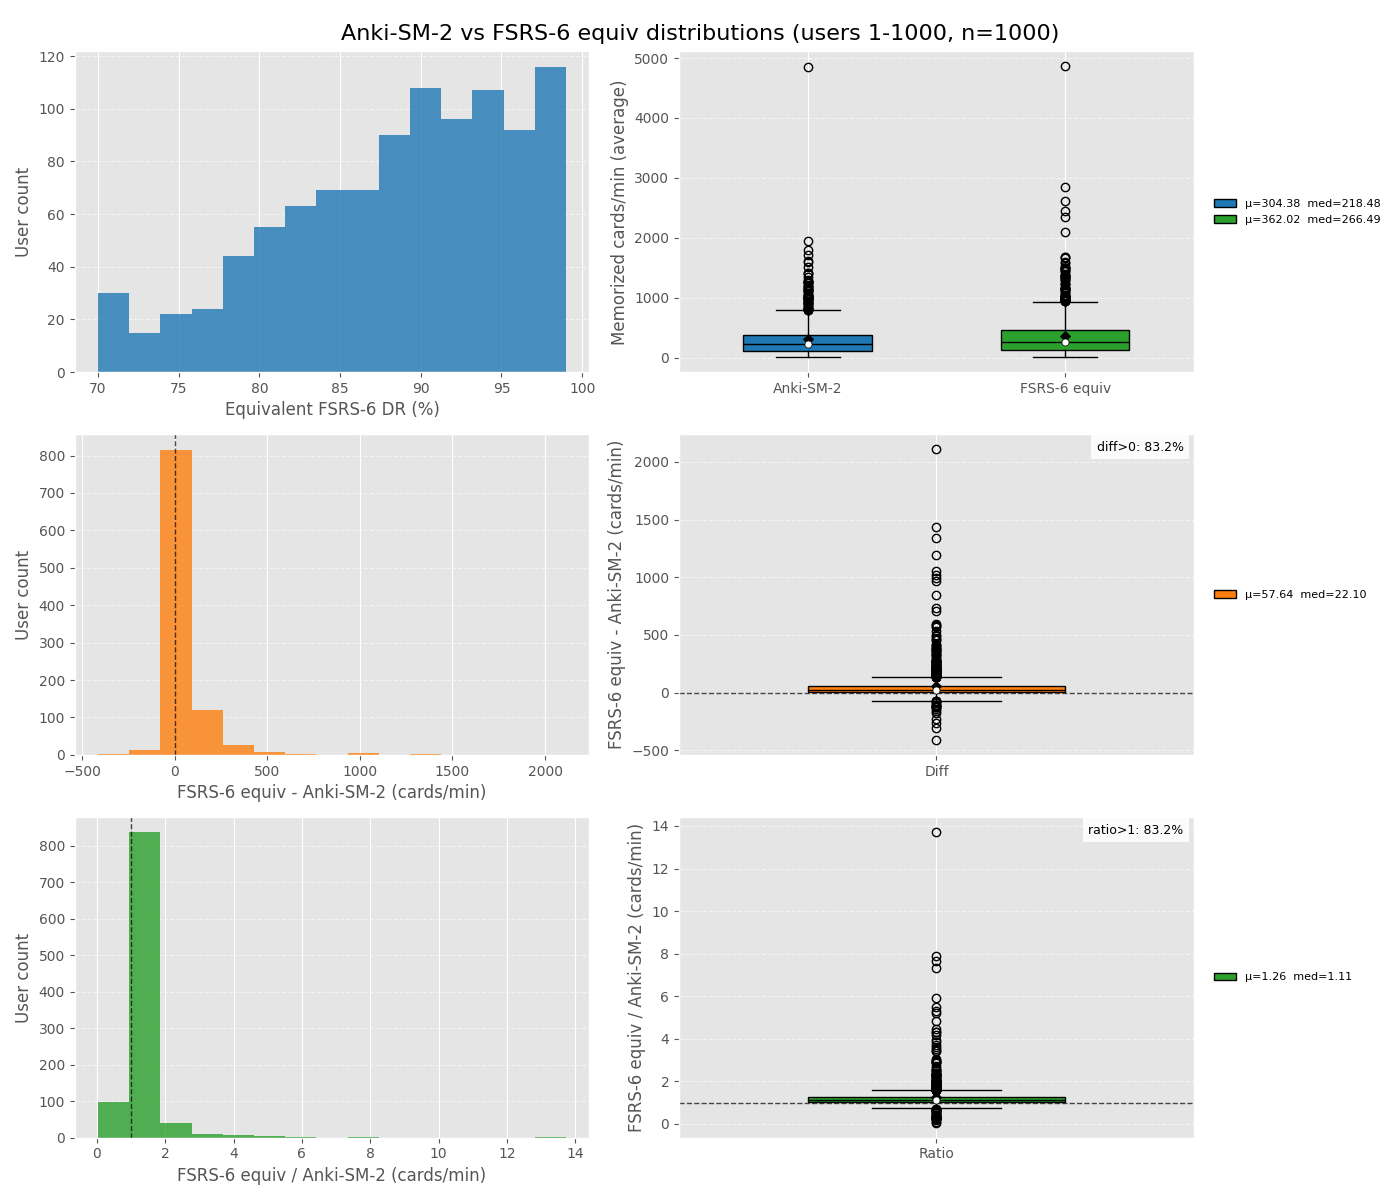
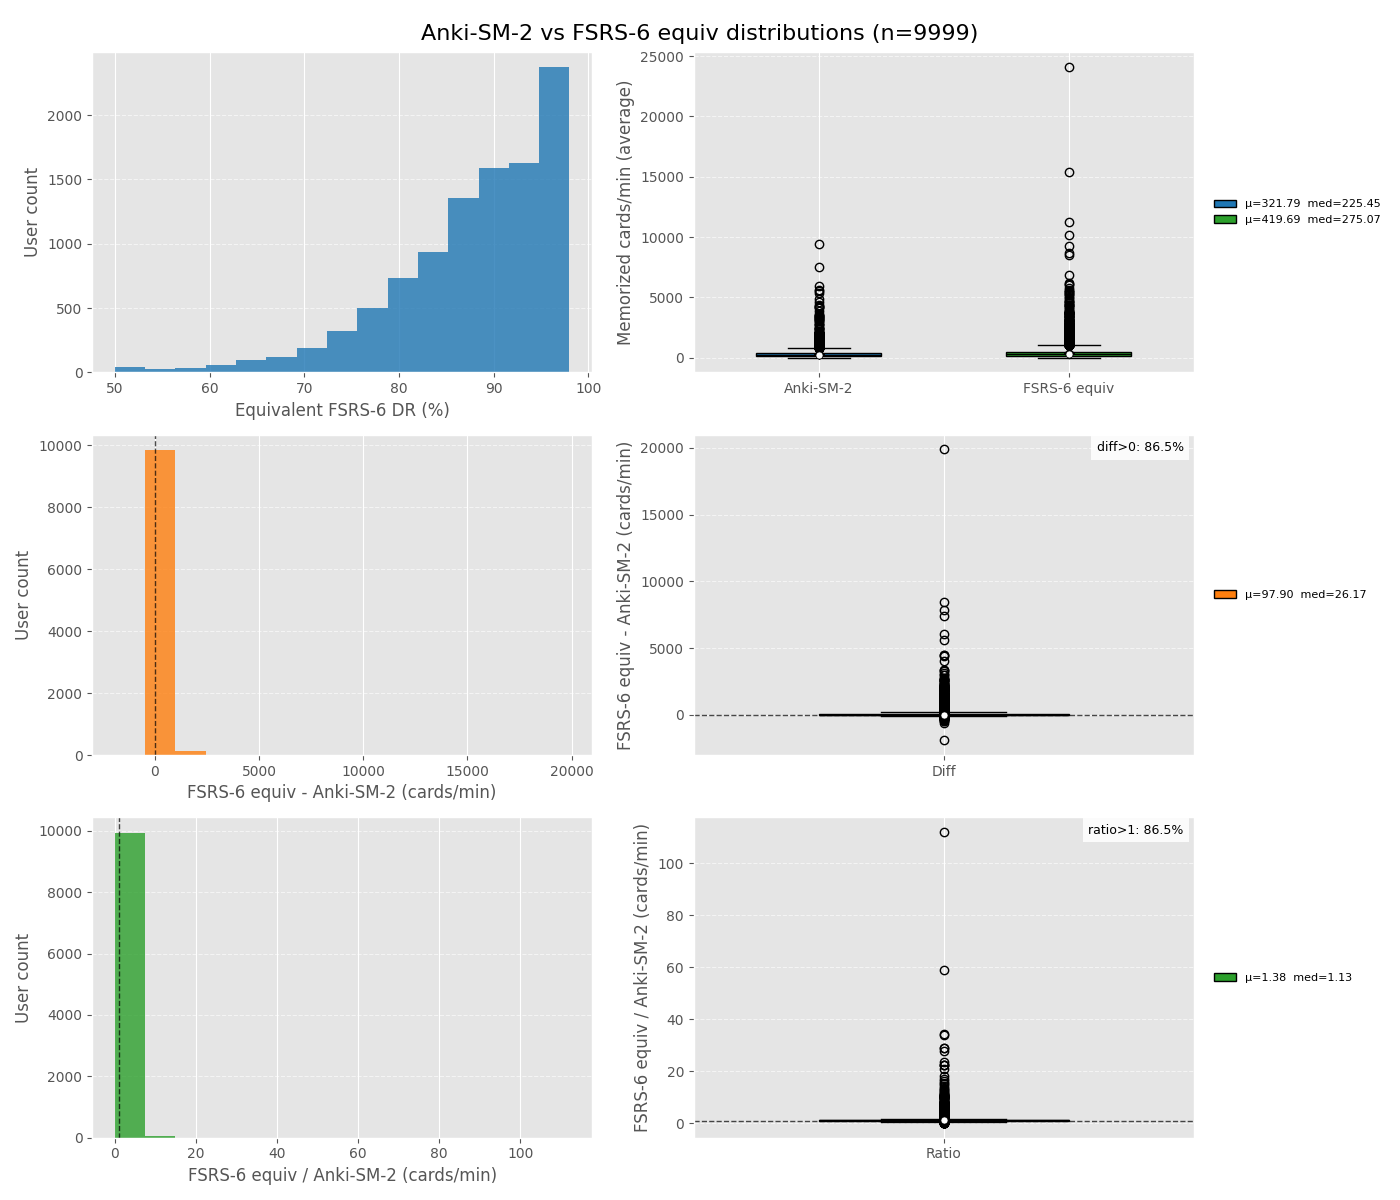
docs: refresh fsrs6 equivalence plots

diff --git a/README.md b/README.md
@@ -162,6 +162,8 @@ Metrics and outputs:
 
 ## Retention sweep comparisons (lstm)
 
+_All figures below use `--short-term off` in `aggregate_users.py`._
+
 **SM2 vs Memrise dominance**
 
 ![SM2 vs Memrise dominance](experiments/retention_sweep/plots/dominance/dominance_sm2_memrise.png)
@@ -170,12 +172,12 @@ _Caption: Per-user dominance outcomes between Anki-SM-2 and Memrise (dominates v
 **FSRS6 equivalence vs Anki-SM-2**
 
 ![FSRS6 equiv vs Anki-SM-2](experiments/retention_sweep/plots/user_averages/retention_sweep_equivalent_fsrs6_distributions_anki_sm2.png)
-_Caption: FSRS-6 interpolated to match Anki-SM-2 memorized-average per user; compares memorized-per-minute distributions and deltas._
+_Caption: FSRS-6 interpolated to match Anki-SM-2 memorized-average per user; compares memorized-per-minute distributions and deltas. (n=9999; superiority=86.5%; mean ratio=1.382; median ratio=1.134 (IQR 1.048-1.319); mean DR=0.879; median DR=0.896)._
 
 **FSRS6 equivalence vs Memrise**
 
 ![FSRS6 equiv vs Memrise](experiments/retention_sweep/plots/user_averages/retention_sweep_equivalent_fsrs6_distributions_memrise.png)
-_Caption: FSRS-6 interpolated to match Memrise memorized-average per user; compares memorized-per-minute distributions and deltas._
+_Caption: FSRS-6 interpolated to match Memrise memorized-average per user; compares memorized-per-minute distributions and deltas. (n=9999; superiority=85.2%; mean ratio=1.342; median ratio=1.172 (IQR 1.066-1.352); mean DR=0.860; median DR=0.886)._
 
 ## Benchmarks
 Performance baselines live under `benches/`. See `benches/README.md` for details.
